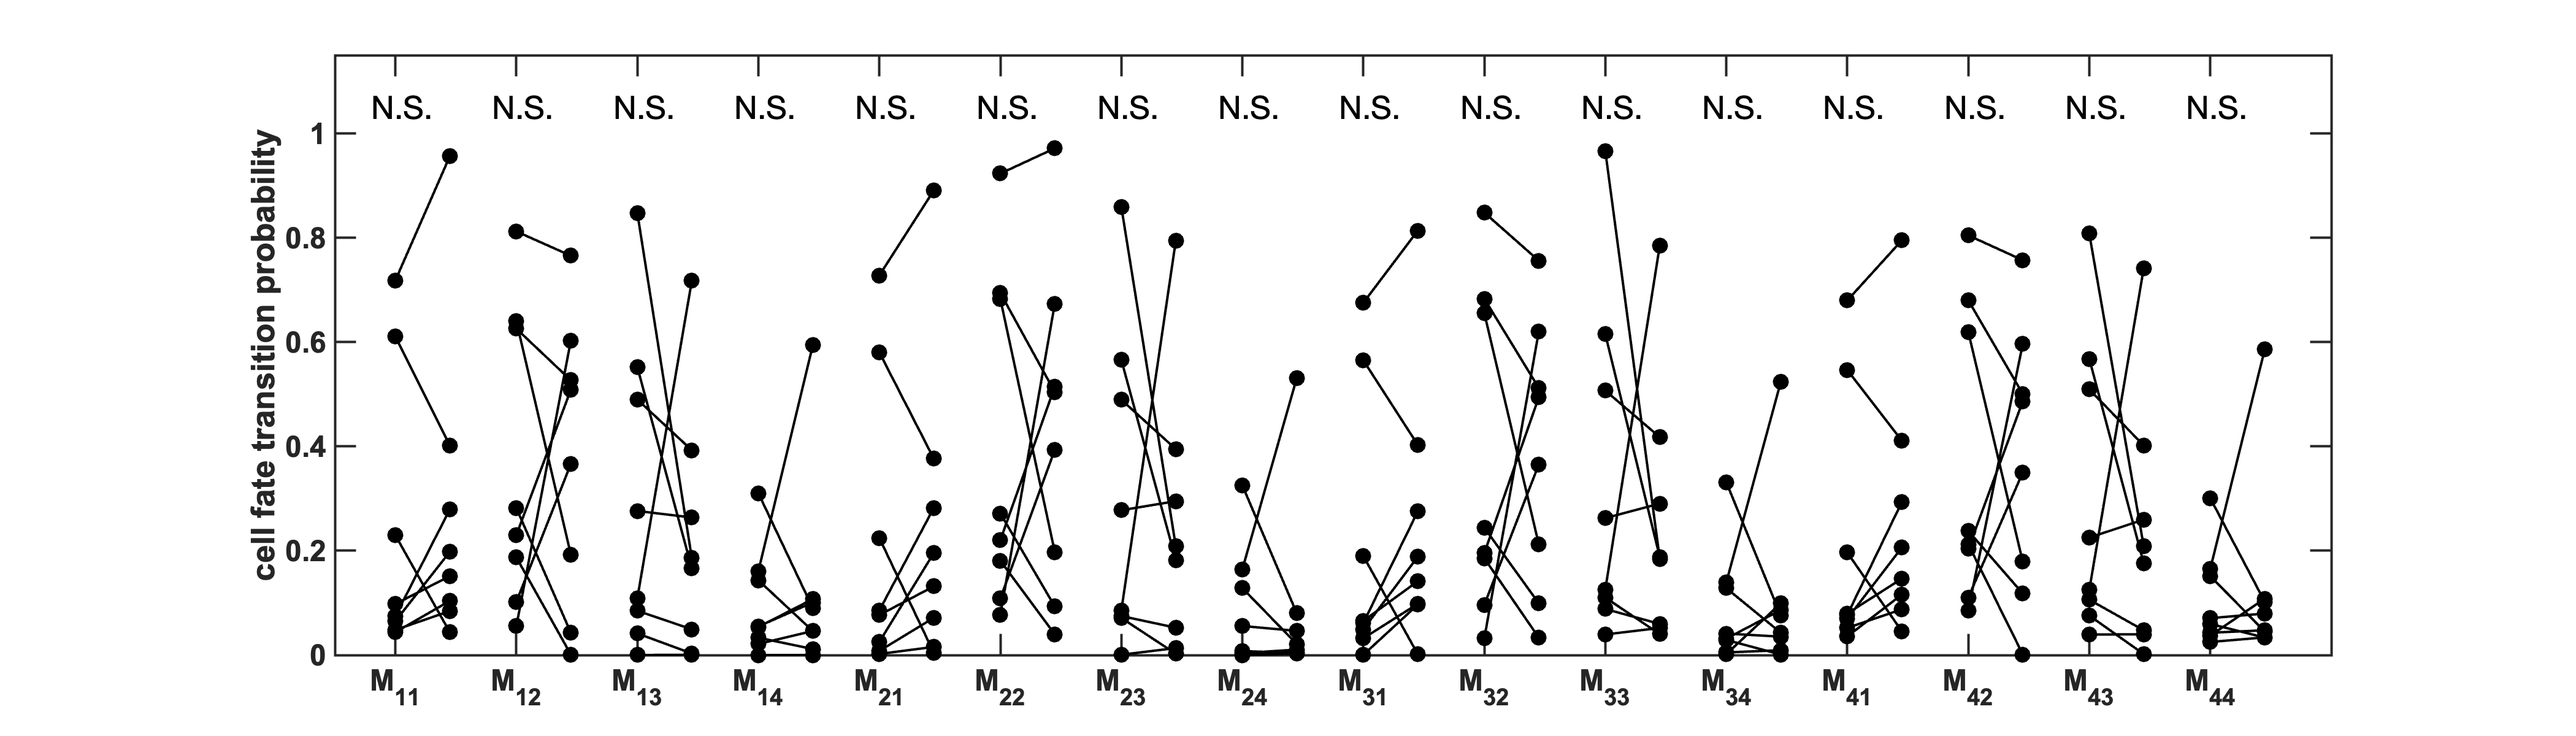
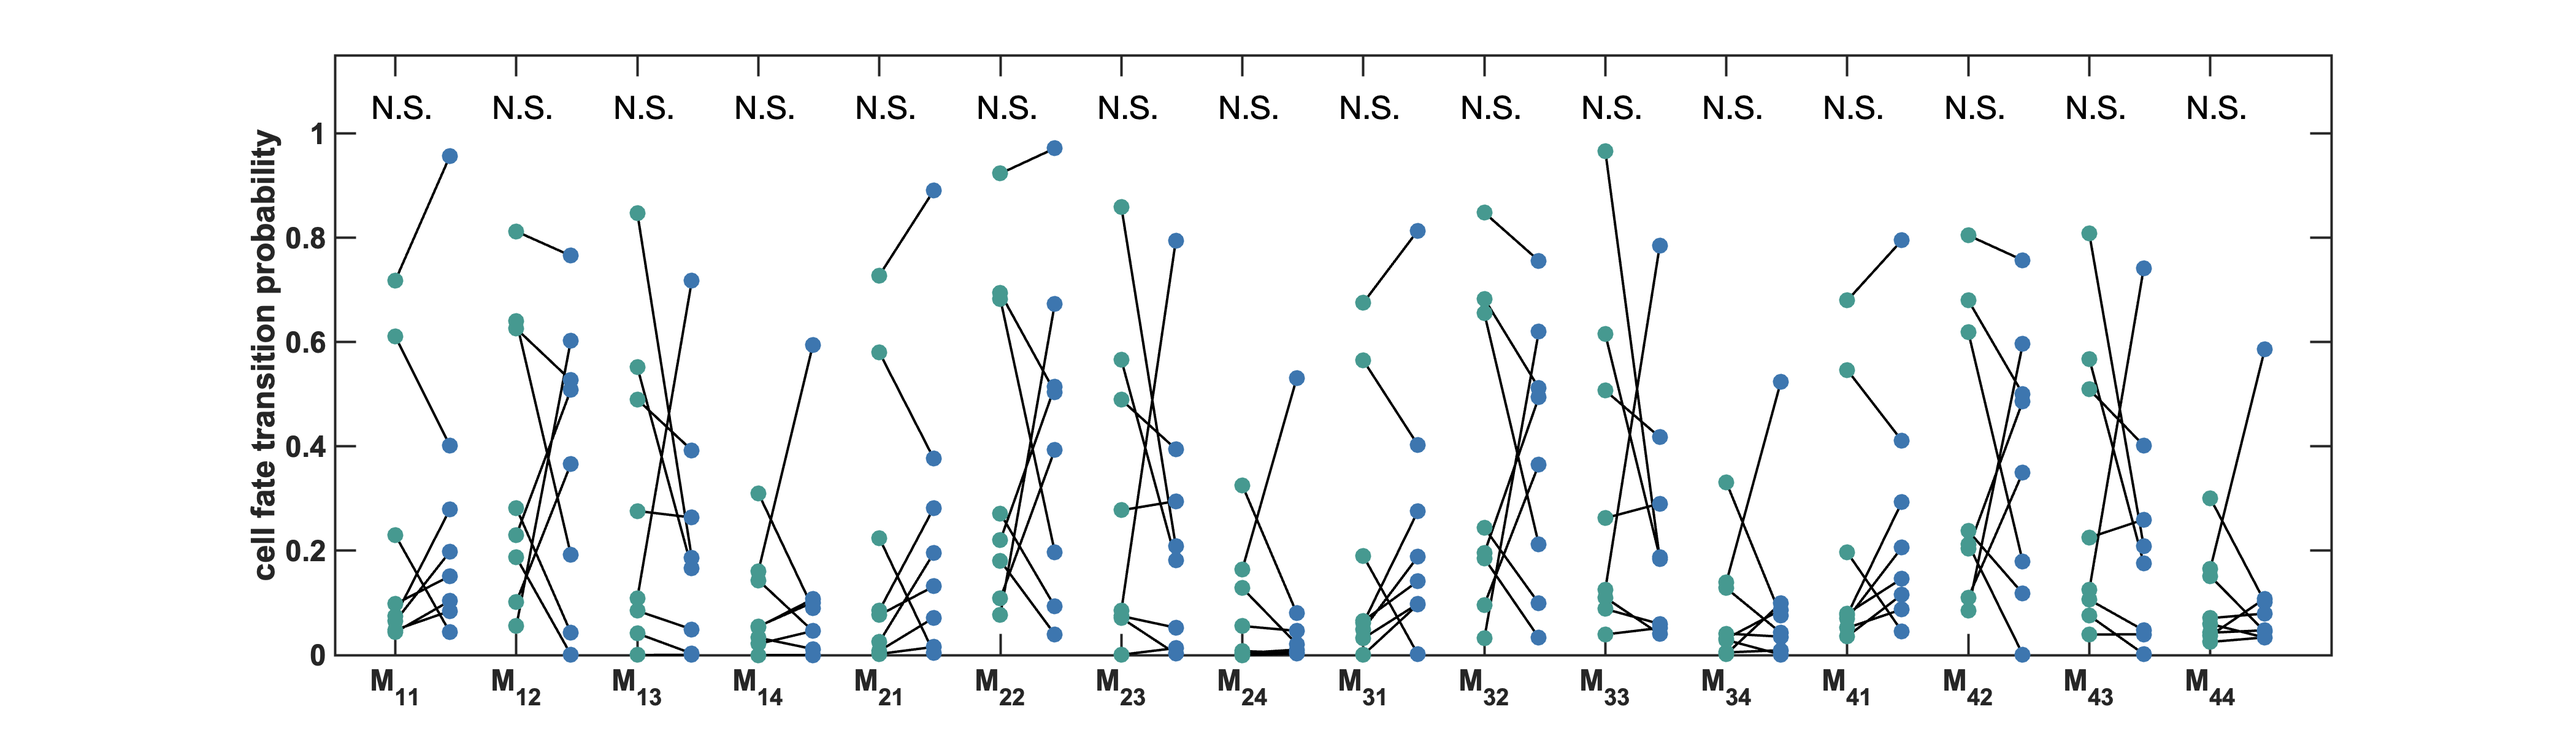
added Figure 5 and Supplemental Figures

diff --git a/Supplemental/figureS2.m b/Supplemental/figureS2.m
@@ -1,0 +1,124 @@
+clc;clear;close all;
+
+four_colors = [123,78,155;
+          162,99,169;
+          219,156,185;
+          242,221,219]/255;
+
+colors = [four_colors;four_colors;four_colors;four_colors];
+
+%% read in flow data
+filename = '../Data/markov.csv';
+
+AllIDs = getStringRow(filename,'PatientID');
+DP = getStringRow(filename,'DiseaseProgression');
+S = getStringRow(filename,'Specimen');
+B = getStringRow(filename,'BCR::ABL1/like')
+
+
+matrix = getMarkov(filename);
+Xlabels={'M_{11}','M_{12}','M_{13}','M_{14}','M_{21}','M_{22}','M_{23}','M_{24}','M_{31}','M_{32}','M_{33}','M_{34}','M_{41}','M_{42}','M_{43}','M_{44}'};
+
+
+BCRpositive_Matrixs = matrix(:, find(strcmp(DP, 'Diagnosis') & (strcmp(B, 'BCR::ABL1-like') | strcmp(B, 'BCR::ABL1') ) ));
+BCRnegative_Matrixs = matrix(:, find(strcmp(DP, 'Diagnosis') & (strcmp(B, 'Negative')  ) ));
+remission_Matrixs = matrix(:, find(strcmp(DP, 'Remission')    ));
+
+figure(1);
+    violinplot(BCRpositive_Matrixs',Xlabels,'ViolinColor',colors,...
+        'DataStyle', 'scatter',... % scatter, none
+        'ShowNotches', false,...
+        'ViolinAlpha',0.75,...
+        'HalfViolin','full',...% left, full
+        'Bandwidth', 0.25, ...
+        'Width', 0.4, ...
+        'QuartileStyle','boxplot'); 
+
+
+    ylim([0 1.15]); xlim([0,17]); clean(); resize(3.5,1); hold on; setfontsize(28);
+    ylabel('cell fate transition probability')
+
+figure(2);
+    violinplot(BCRnegative_Matrixs',Xlabels,'ViolinColor',colors,...
+        'DataStyle', 'scatter',... % scatter, none
+        'ShowNotches', false,...
+        'ViolinAlpha',0.75,...
+        'HalfViolin','full',...% left, full
+        'Bandwidth', 0.25, ...
+        'Width', 0.4, ...
+        'QuartileStyle','boxplot'); 
+
+
+    ylim([0 1.15]); xlim([0,17]); clean(); resize(3.5,1); hold on; setfontsize(28);
+    ylabel('cell fate transition probability')
+
+figure(3);
+    violinplot(remission_Matrixs',Xlabels,'ViolinColor',colors,...
+        'DataStyle', 'scatter',... % scatter, none
+        'ShowNotches', false,...
+        'ViolinAlpha',0.75,...
+        'HalfViolin','full',...% left, full
+        'Bandwidth', 0.25, ...
+        'Width', 0.4, ...
+        'QuartileStyle','boxplot'); 
+
+
+    ylim([0 1.15]); xlim([0,17]); clean(); resize(3.5,1); hold on; setfontsize(28);
+    ylabel('cell fate transition probability')
+
+
+printPNG(figure(1),'../plot/S2A.png')
+printPNG(figure(2),'../plot/S2B.png')
+printPNG(figure(3),'../plot/S2C.png')
+
+
+
+
+
+
+function idx = getRowIndex(filename, target_string)
+    % Open file and read first column
+    fid = fopen(filename, 'r');
+    idx = 1;
+    while ~feof(fid)
+        line = fgetl(fid);
+        if ~isempty(line)
+            parts = strsplit(line, ',');
+            if strcmp(parts{1}, target_string)
+                fclose(fid);
+                return;
+            end
+        end
+        idx = idx + 1;
+    end
+    fclose(fid);
+    idx = -1; % Return -1 if string not found
+end
+
+function row = getStringRow(filename,Variable)
+    idx = getRowIndex(filename,Variable);
+    % Read the idx row (excluding first value) as a string array
+    fid = fopen(filename, 'r');
+    for i = 1:idx
+        tline = fgetl(fid);
+    end
+    row = strsplit(tline, ',');
+    row = row(2:end); % Exclude first value
+    fclose(fid);
+end
+
+function matrix = getMarkov(filename)
+    % Read rows 21-24 (excluding first column) as numeric matrix
+    fid = fopen(filename, 'r');
+    for i = 1:19
+        tline = fgetl(fid); % Skip first 19 lines
+    end
+    
+    matrix = [];
+    for i = 1:16
+        tline = fgetl(fid);
+        row = str2double(strsplit(tline, ','));
+        matrix(i,:) = row(2:end); % Exclude first column
+    end
+    fclose(fid);
+end

diff --git a/Supplemental/figureS1.m b/Supplemental/figureS1.m
@@ -1,0 +1,141 @@
+clc;clear;close all;
+
+PBcolor = [195,253,196]/255;
+BMcolor = [239,183,182]/255;
+
+
+
+
+%% read in flow data
+filename = '../Data/markov.csv';
+
+AllIDs = getStringRow(filename,'PatientID');
+DP = getStringRow(filename,'DiseaseProgression');
+S = getStringRow(filename,'Specimen');
+
+
+matrix = getMarkov(filename);
+Xlabels={'M_{11}','M_{12}','M_{13}','M_{14}','M_{21}','M_{22}','M_{23}','M_{24}','M_{31}','M_{32}','M_{33}','M_{34}','M_{41}','M_{42}','M_{43}','M_{44}'};
+
+
+BM_Ids = AllIDs(find(strcmp(DP, 'Diagnosis') & strcmp(S, 'BM')));
+BM_Matrixs = matrix(:, find(strcmp(DP, 'Diagnosis') & strcmp(S, 'BM') ));
+
+PB_Ids = AllIDs(find(strcmp(DP, 'Diagnosis') & strcmp(S, 'PB')));
+PB_Matrixs = matrix(:, find(strcmp(DP, 'Diagnosis') & strcmp(S, 'PB') ));
+
+% Find overlapping patient IDs between diagnosis and relapse
+overlapping_ids = intersect(BM_Ids, PB_Ids);
+
+% Find indices of overlapping IDs in Diagnosis and Relapse arrays
+BM_indices = [];
+PB_indices = [];
+
+j = 1;
+for i = 1:length(overlapping_ids)
+
+    array = find(strcmp(BM_Ids, overlapping_ids{i}));
+    BM_indices = [BM_indices,array(1)];
+    
+    array = find(strcmp(PB_Ids, overlapping_ids{i}));
+    PB_indices = [PB_indices,array(1)];    
+end
+
+MatricesBM = BM_Matrixs(:,BM_indices);
+MatricesPB = PB_Matrixs(:,PB_indices);
+
+
+
+    violinplot(MatricesPB',Xlabels,'ViolinColor',PBcolor,...
+        'DataStyle', 'scatter',... % scatter, none
+        'ShowNotches', false,...
+        'ViolinAlpha',0.75,...
+        'HalfViolin','left',...% left, full
+        'Bandwidth', 0.25, ...
+        'Width', 0.4, ...
+        'QuartileStyle','boxplot'); 
+
+    violinplot(MatricesBM',Xlabels,'ViolinColor',BMcolor,...
+        'DataStyle', 'scatter',... % scatter, none
+        'ShowNotches', false,...
+        'ViolinAlpha',0.5,...
+        'HalfViolin','right',...% left, full
+        'Bandwidth', 0.25, ...
+        'Width', 0.4, ...
+        'QuartileStyle','boxplot'); 
+
+    ylim([0 1.15]); 
+
+
+    hold on;
+    clean();
+
+    ylabel('cell fate transition probability')
+
+    h = ttest2(MatricesPB',MatricesBM');
+
+    for i = 1:1:length(h)
+        if (h(i) == 0)
+            text(i-0.2,1.05,"N.S.",'FontSize',18);
+        else
+            text(i-0.2,1.05,"*",'FontSize',18);
+        end
+    end
+
+xlim([0,17])
+resize(3.5,1)
+setfontsize(28);
+
+printPNG(figure(1),'../plot/S1.png')
+
+
+
+
+
+
+function idx = getRowIndex(filename, target_string)
+    % Open file and read first column
+    fid = fopen(filename, 'r');
+    idx = 1;
+    while ~feof(fid)
+        line = fgetl(fid);
+        if ~isempty(line)
+            parts = strsplit(line, ',');
+            if strcmp(parts{1}, target_string)
+                fclose(fid);
+                return;
+            end
+        end
+        idx = idx + 1;
+    end
+    fclose(fid);
+    idx = -1; % Return -1 if string not found
+end
+
+function row = getStringRow(filename,Variable)
+    idx = getRowIndex(filename,Variable);
+    % Read the idx row (excluding first value) as a string array
+    fid = fopen(filename, 'r');
+    for i = 1:idx
+        tline = fgetl(fid);
+    end
+    row = strsplit(tline, ',');
+    row = row(2:end); % Exclude first value
+    fclose(fid);
+end
+
+function matrix = getMarkov(filename)
+    % Read rows 21-24 (excluding first column) as numeric matrix
+    fid = fopen(filename, 'r');
+    for i = 1:19
+        tline = fgetl(fid); % Skip first 19 lines
+    end
+    
+    matrix = [];
+    for i = 1:16
+        tline = fgetl(fid);
+        row = str2double(strsplit(tline, ','));
+        matrix(i,:) = row(2:end); % Exclude first column
+    end
+    fclose(fid);
+end

diff --git a/Figure 5/figure5.m b/Figure 5/figure5.m
@@ -1,19 +1,13 @@
 clc;clear;close all;
-
-MRDpositivecolor = [227,206,169]/255;
-MRDnegativecolor = [154,185,186]/255;
-% colors = [123,78,155;
-%           162,99,169;
-%           219,156,185;
-%           242,221,219]/255;
-% MindicesVIRTUAL = 3:18; % matrix cols
-% MindicesAVG = 2:17; % matrix cols
-% Xindices = 2:5; % matrix cols
-
 MS = 45;
 lw = 2;
 FS = 24;
 
+DIAGNOSIS_COLOR = [70,153,144]/255;
+RELAPSE_COLOR = [61,118,175]/255;
+REMISSION_COLOR = [165,35,211]/255;
+
+colors = [RELAPSE_COLOR;REMISSION_COLOR];
 
 DiseaseProgression2 = {'Relapse','Remission'};
 
@@ -62,12 +56,16 @@ for DP2 = DiseaseProgression2
     
     for i = 1:1:length(diagnosis_indices)
             
-        plot(xvals,diagnosis(:,i),'.','Color',black(),'MarkerSize',MS);
-        plot(xvals+delta,relapse(:,i),'.','Color',black(),'MarkerSize',MS);
-    
         for j = 1:1:length(xvals)
             plot([xvals(j),xvals(j)+delta],[diagnosis(j,i),relapse(j,i)],'-','Color',black(),'LineWidth',lw);
         end
+    end
+    for i = 1:1:length(diagnosis_indices)
+
+        plot(xvals,diagnosis(:,i),'.','Color',DIAGNOSIS_COLOR,'MarkerSize',MS);
+        plot(xvals+delta,relapse(:,i),'.','Color',colors(f,:),'MarkerSize',MS);
+    
+        
     end
     
     Xlabels={'M_{11}','M_{12}','M_{13}','M_{14}','M_{21}','M_{22}','M_{23}','M_{24}','M_{31}','M_{32}','M_{33}','M_{34}','M_{41}','M_{42}','M_{43}','M_{44}'};
